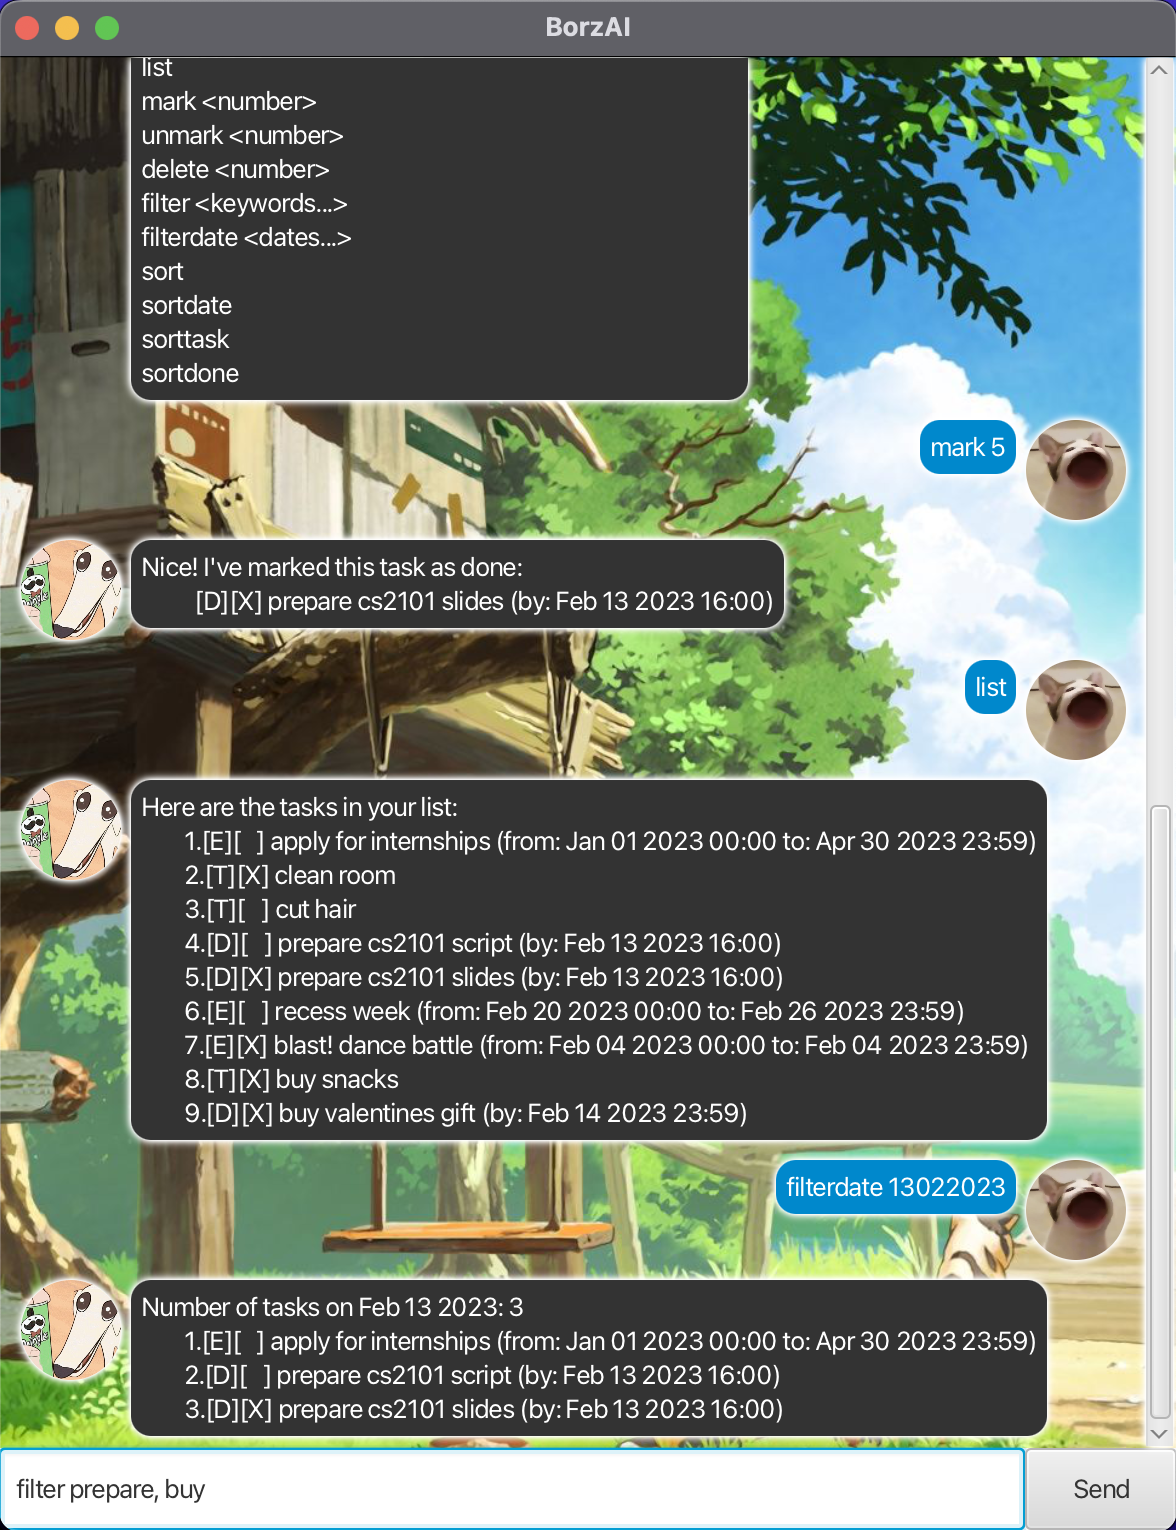
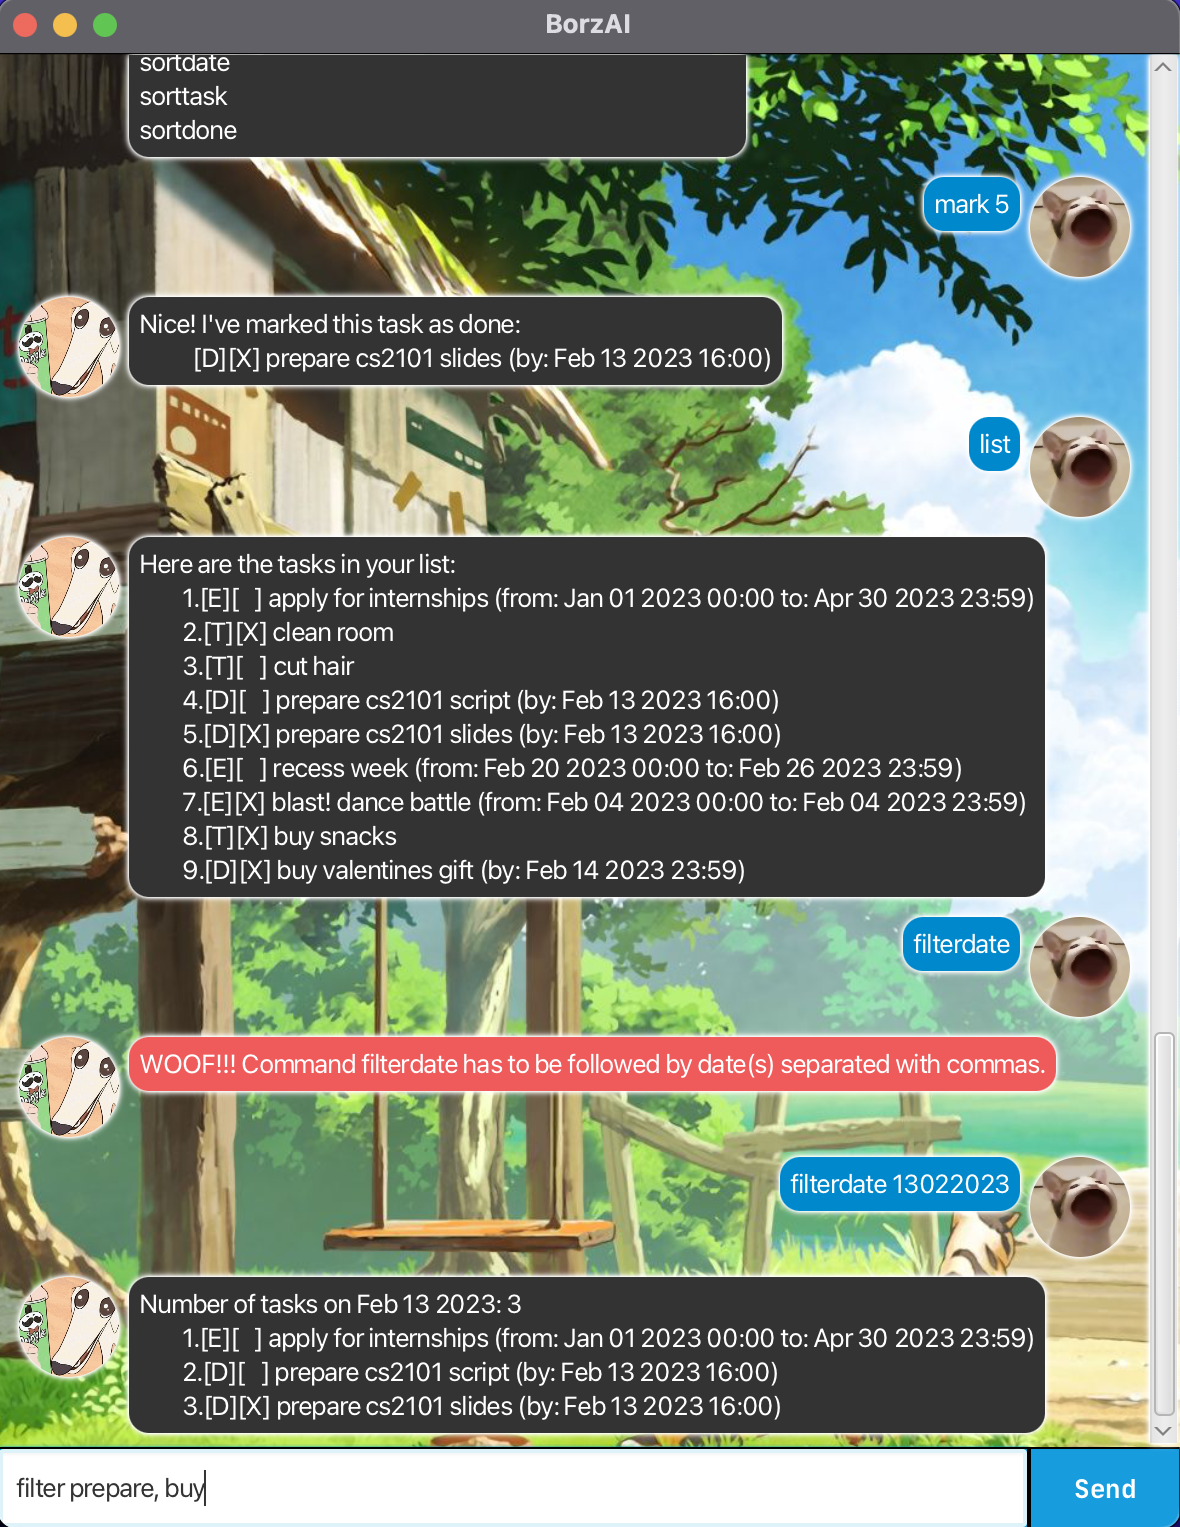
Clean up

diff --git a/src/main/resources/styles/styles.css b/src/main/resources/styles/styles.css
@@ -9,10 +9,23 @@
     -fx-background-radius: 10px;
     -fx-text-fill: white;
 }
+#sendButton {
+    -fx-background-color: #0088CC;
+    -fx-text-fill: white;
+    -fx-border-color: black;
+}
+#sendButton:hover {
+    -fx-background-color: #179CDE;
+}
 #scrollPane {
     -fx-background: transparent;
     -fx-background-color: transparent;
-    -fx-effect: dropshadow(three-pass-box, white, 5, 0.5, 0, 0);
-
+    -fx-effect: dropshadow(gaussian, white, 5, 0.5, 0, 0);
+}
+#userInput {
+    -fx-border-color: black;
+}
+#userInput:hover {
+    -fx-border-color: #179CDE;
 }
 

diff --git a/src/main/java/duke/MainWindow.java b/src/main/java/duke/MainWindow.java
@@ -48,12 +48,14 @@ public class MainWindow extends AnchorPane {
      */
     @FXML
     private void handleUserInput() {
-        String input = userInput.getText();
-        Pair<String, Boolean> response = duke.getResponse(input);
-        dialogContainer.getChildren().addAll(
-                DialogBox.getUserDialog(userImage, input),
-                DialogBox.getDukeDialog(dukeImage, response.getKey(), response.getValue())
-        );
+        String input = userInput.getText().trim();
+        if (!input.isEmpty()) {
+            Pair<String, Boolean> response = duke.getResponse(input);
+            dialogContainer.getChildren().addAll(
+                    DialogBox.getUserDialog(userImage, input),
+                    DialogBox.getDukeDialog(dukeImage, response.getKey(), response.getValue())
+            );
+        }
         userInput.clear();
     }
 }
